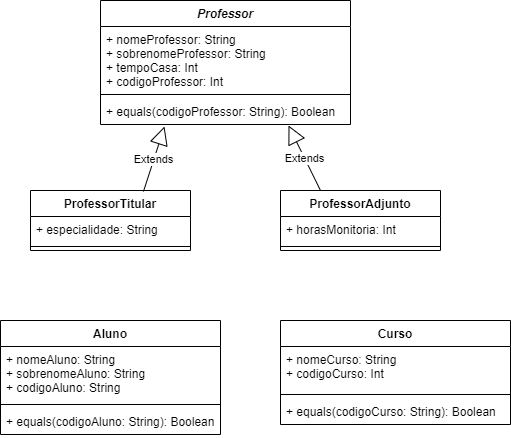
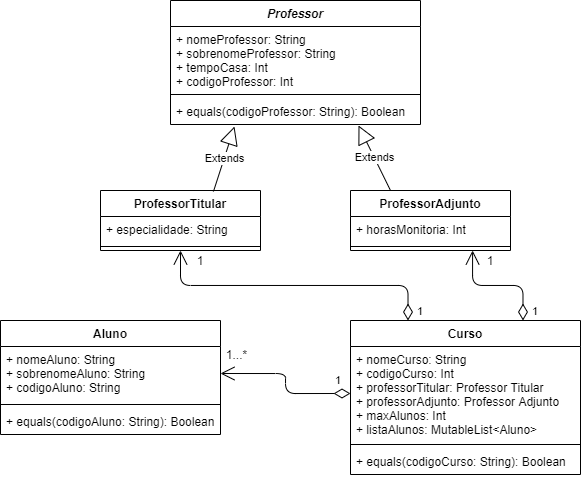
Parte E - Modificação da classe Curso

Changed region(s): [[0.0, 0.5936, 1.0, 1.0], [0.0587, 0.0, 0.8806, 0.5936]]

diff --git a/src/br/digital/com/Curso.kt b/src/br/digital/com/Curso.kt
@@ -1,6 +1,12 @@
 package br.digital.com
 
-class Curso(var nomeCurso: String, var codigoCurso: Int) {
+class Curso(
+        var nomeCurso: String,
+        var codigoCurso: Int,
+        var professorTitular: ProfessorTitular,
+        var professorAdjunto: ProfessorAdjunto,
+        var maxAlunos: Int,
+        var listaAlunos: MutableList<Aluno>) {
 
     override fun equals(other: Any?): Boolean {
         if (this === other) return true
